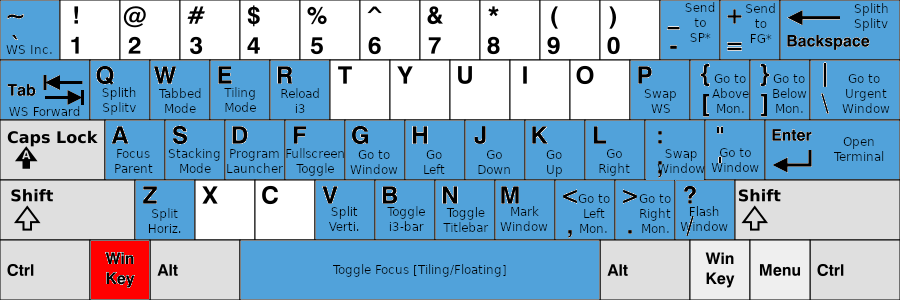
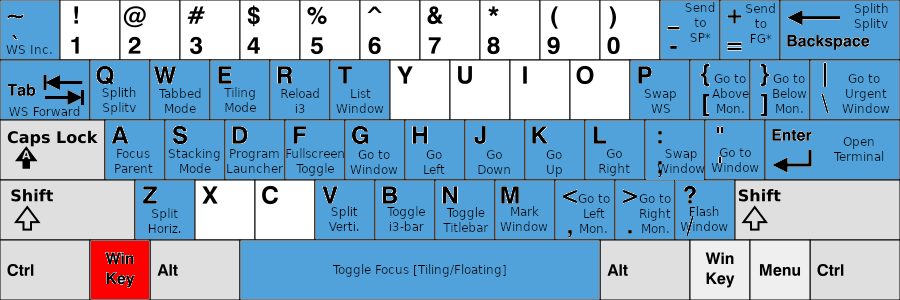
update_README

Changed region(s): [[0.3422, 0.18, 0.4356, 0.42]]

diff --git a/README.md b/README.md
@@ -71,10 +71,11 @@ Created by [gh-md-toc](https://github.com/ekalinin/github-markdown-toc)
 <details open>
 <summary>Click to expand/shrink</summary>
 
+- Display Manager: [GNOME display manager (GDM)](https://gitlab.gnome.org/GNOME/gdm)
 - i3 Window Manager: [i3-gap](https://github.com/Airblader/i3) `4.20.1`
-- Status Bar: [default i3bar](https://i3wm.org/docs/userguide.html#_configuring_i3bar) `4.20.1` + [bumblebee-status](https://github.com/tobi-wan-kenobi/bumblebee-status) `2.0.5`
+- Status Bar: [i3bar](https://i3wm.org/docs/userguide.html#_configuring_i3bar) `4.20.1` + [bumblebee-status](https://github.com/tobi-wan-kenobi/bumblebee-status) `2.0.5`
 - Terminal: [kitty](https://github.com/kovidgoyal/kitty) `0.25.0`
-- Shell: [fish](https://github.com/fish-shell/fish-shell) `3.4.1` + [oh-my-fish](https://github.com/oh-my-fish/oh-my-fish) `7`
+- Shell: [fish](https://github.com/fish-shell/fish-shell) `3.4.1` + [oh-my-fish](https://github.com/oh-my-fish/oh-my-fish) `7` + [starship](https://starship.rs/) `1.2.1`
 - Terminal Multiplexer: [tmux](https://github.com/tmux/tmux) `3.2a` + [my configuration](https://github.com/JordanWu1997/Vim_Tmux_Config)
 - Text Editor: [neovim](https://github.com/neovim/neovim) `0.6.1` + [my configuration](https://github.com/JordanWu1997/Vim_Tmux_Config)
 - Application Launcher: [rofi](https://github.com/davatorium/rofi) `1.7.3`
@@ -374,8 +375,9 @@ Created by [gh-md-toc](https://github.com/ekalinin/github-markdown-toc)
 - __Send Window to Workspace (Relatively)__
     - `[Alt]` + (`[Shift]`) + `[Grave]`: Send to (prev)/next workspace
     - `[Ctrl]` + `[Alt]` + `[Shift]` + `[Left/Right]`: Gnome-like workspace operation. Send to (prev)/next workspace (create one if it does not exist)
-- __Move between Windows__
-    - `[Alt]` + (`[Shift]`) + `[Tab]`: Show all window list on (current)/all displays
+- __List Windows__
+    - `[Alt]` + (`[Shift]`) + `[Tab]`: List all window on (current)/all displays
+    - `[Winkey]` + `[t]`: Vimium-like tab operation. List all window on all displays
 - __Manipulate Scratchpad__
     - `[Winkey]` + `[-]`: Send focused window to the scratchpad (background)
     - `[Winkey]` + `[Shift]` + `[-]`: Send all floating windows to scratchpad (background)
